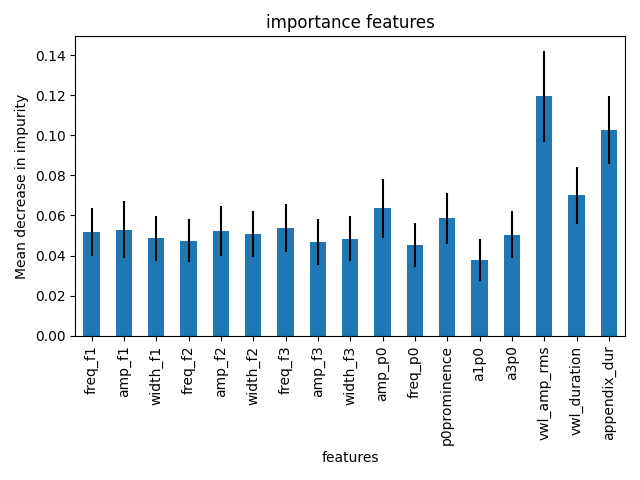
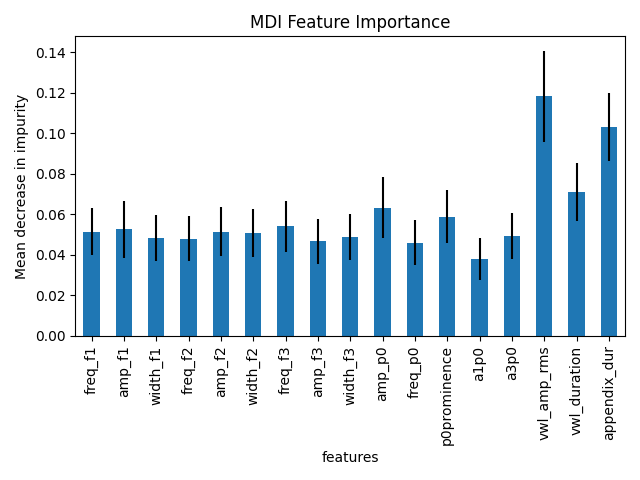
refining model

diff --git a/py_files/decision_tree/main.py b/py_files/decision_tree/main.py
@@ -34,18 +34,23 @@ def main():
         depth=30
     )
 
-    accuracy, classification = regression_model.prediction()
-    print(f'accuracy:\n{accuracy}')
-    print(f'classification:\n{classification}')
+    regression_model.modeling()
+    accuracy, report, oob = regression_model.prediction()
 
+    print(f"Validation Accuracy: {accuracy:.4f}")
+    print(f"OOB Score:           {oob:.4f}")
+    print(f"\nClassification Report:\n{report}")
+
+    # Feature Importance Visualizations
     importance_trees(
         regression_model,
-        "importance features",
+        "MDI Feature Importance",
         "importance_with_tache",
         "features",
         "Mean decrease in impurity",
-        x,
+        x
     )
+
     permutation(
         regression_model.model,
         "Importance features via permutation on full model",

diff --git a/py_files/decision_tree/rand_forest_regression.py b/py_files/decision_tree/rand_forest_regression.py
@@ -15,7 +15,8 @@ class RandomForest_nasal:
             oob_score=True,
             n_jobs=-1
         )
-        return self.model.fit(self.x_train, self.y_train)
+        self.model.fit(self.x_train, self.y_train)
+        return self.model
 
     def prediction(self):
         if self.model is None:
